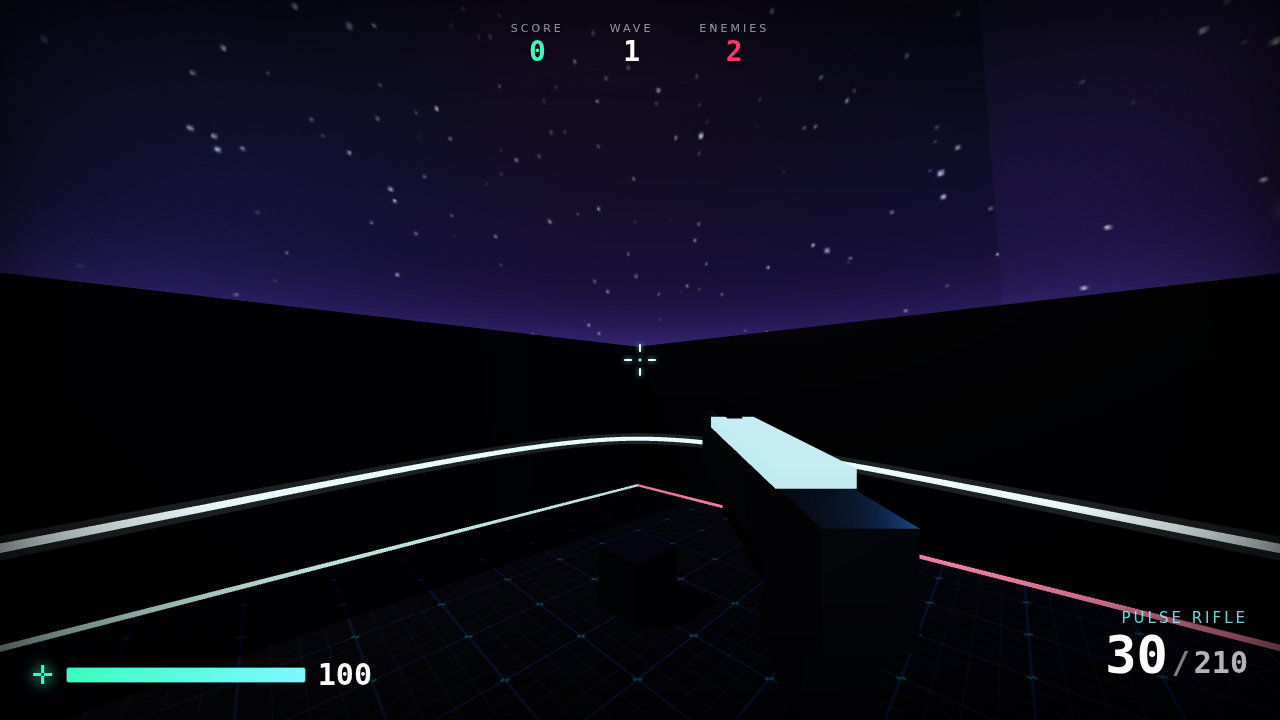
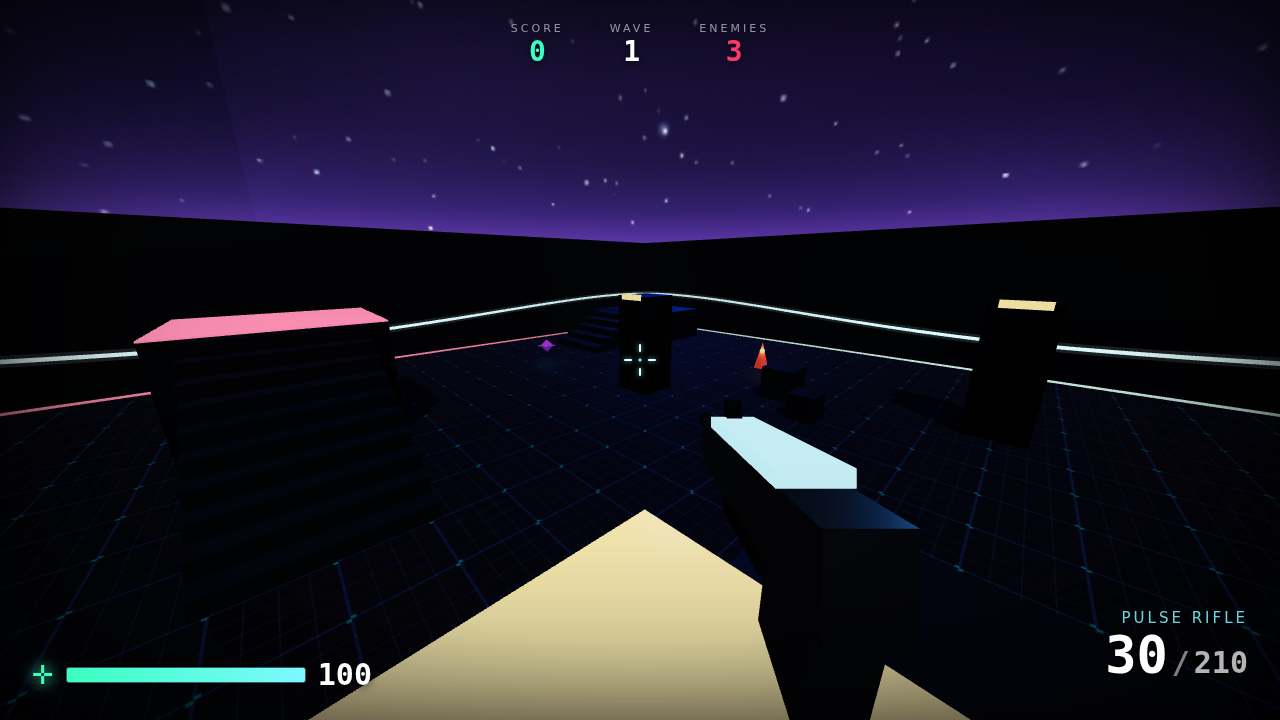
Stronger hit feedback, floaty higher jump, stairs + more verticality
Addressing playtest feedback:

- Getting hit is now obvious: a sharp red full-screen punch flash on impact, a
  stronger/longer-lingering red damage vignette, bigger brighter directional
  hit arrows, a health-bar shake + flash, and a meatier camera flinch + shake.
- Jump reworked for low-gravity feel: gravity 22 -> 16 and jump speed 7.6 ->
  8.6, giving a floaty ~2.3m jump (was ~1.3m) with more hang time and air
  control. Climbing with it now feels good.
- Verticality: the arena is multi-tier now. A central ziggurat (tiers at 1.2 /
  3.0 / 5.0) you hop up with the new jump, plus two high platforms (top 4.5)
  reached by proper walkable staircases (new buildStairs). Removed two pillars
  to open clean lanes; the perimeter rail stays clear of the new platforms.

Verified in headless Chromium: 2.24m jump, stairs climb to 4.5, hit-flash +
vignette + direction arrows fire, rail doesn't clip platforms, grind still
works, 40s combat soak reaches wave 3 with enemies pathing fine, zero errors.

Claude-Session: https://claude.ai/code/session_01UJSmgfZbDXcqYDTu1AQfyS

diff --git a/src/ui/hud.js b/src/ui/hud.js
@@ -20,6 +20,7 @@ export class HUD {
     this.hitFlash = 0;
     this.killFlash = 0;
     this.dmgFlash = 0;
+    this.hitFlashAmt = 0;
     this.lowHealthPulse = 0;
     this.combo = 0;
     this.comboTimer = 0;
@@ -31,6 +32,7 @@ export class HUD {
       <div id="vignette"></div>
       <div id="timewarp"></div>
       <div id="dmg-vignette"></div>
+      <div id="hit-flash"></div>
       <div id="hit-dir-layer"></div>
       <div id="crosshair">
         <div class="ch-dot"></div>
@@ -119,6 +121,7 @@ export class HUD {
       controls: q('#controls'),
       vignette: q('#dmg-vignette'),
       timewarp: q('#timewarp'),
+      hitFlash: q('#hit-flash'),
       hitDirLayer: q('#hit-dir-layer'),
       popupLayer: q('#popup-layer'),
       combo: q('#combo'),
@@ -237,7 +240,12 @@ export class HUD {
   }
 
   damageFlash(intensity, sourcePos, camera) {
-    this.dmgFlash = Math.max(this.dmgFlash, 0.4 + clamp01(intensity) * 0.5);
+    const i = clamp01(intensity);
+    this.dmgFlash = Math.max(this.dmgFlash, 0.6 + i * 0.4);   // lingering red vignette
+    this.hitFlashAmt = Math.max(this.hitFlashAmt, 0.5 + i * 0.45); // sharp instant punch
+    this.el.healthWrap.classList.remove('hit');
+    void this.el.healthWrap.offsetWidth;
+    this.el.healthWrap.classList.add('hit');
     if (sourcePos && camera) this._spawnDirIndicator(sourcePos, camera);
   }
 
@@ -245,7 +253,7 @@ export class HUD {
     const el = document.createElement('div');
     el.className = 'hit-dir';
     this.el.hitDirLayer.appendChild(el);
-    this.dmgIndicators.push({ el, life: 1.4, sourcePos: sourcePos.clone() });
+    this.dmgIndicators.push({ el, life: 2.0, max: 2.0, sourcePos: sourcePos.clone() });
   }
 
   popDamage(worldPos, amount, isHead, camera) {
@@ -341,8 +349,10 @@ export class HUD {
     const lowT = clamp01(1 - this.health / (this.maxHealth * 0.4));
     this.lowHealthPulse += dt * lerp(2, 8, lowT);
     const lowBase = lowT * (0.16 + (Math.sin(this.lowHealthPulse) * 0.5 + 0.5) * 0.22 * lowT);
-    this.dmgFlash = Math.max(0, this.dmgFlash - dt * 1.8);
+    this.dmgFlash = Math.max(0, this.dmgFlash - dt * 1.3);
     this.el.vignette.style.opacity = Math.max(this.dmgFlash, lowBase).toFixed(3);
+    this.hitFlashAmt = Math.max(0, this.hitFlashAmt - dt * 4.5);
+    this.el.hitFlash.style.opacity = this.hitFlashAmt.toFixed(3);
 
     // combo timer
     if (this.comboTimer > 0) {
@@ -383,8 +393,8 @@ export class HUD {
       let rel = srcYaw - camYaw;
       while (rel > Math.PI) rel -= Math.PI * 2;
       while (rel < -Math.PI) rel += Math.PI * 2;
-      d.el.style.transform = `translate(-50%,-50%) rotate(${-rel}rad) translateY(-150px)`;
-      d.el.style.opacity = String(clamp01(d.life / 1.4));
+      d.el.style.transform = `translate(-50%,-50%) rotate(${-rel}rad) translateY(-180px)`;
+      d.el.style.opacity = String(clamp01(d.life / (d.max || 2.0)));
       if (d.life <= 0) { d.el.remove(); this.dmgIndicators.splice(i, 1); }
     }
   }

diff --git a/src/world/level.js b/src/world/level.js
@@ -114,7 +114,7 @@ export function buildLevel(scene) {
   // --- corner cover pillars ---
   const pillars = [
     [-14, -14], [14, -14], [-14, 14], [14, 14],
-    [-20, 0], [20, 0], [0, -20], [0, 20],
+    [0, -20], [0, 20],
   ];
   for (const [x, z] of pillars) {
     const h = rand(3.5, 5.5);
@@ -138,6 +138,20 @@ export function buildLevel(scene) {
   buildRamp(addBox, crateMat, -25, -21.5, 5, 2.6, 'z+');
   addBox(25, 0, 25, 7, 2.6, 7, pillarMat);     // spans z 21.5..28.5
   buildRamp(addBox, crateMat, 25, 21.5, 5, 2.6, 'z-');
+
+  // --- central ziggurat: stack of tiers you hop up with the floaty jump ---
+  addBox(0, 1.2, 0, 6, 1.8, 6, pillarMat);     // tier 2, top at 3.0
+  addStrip(0, 3.01, 0, 6, 0.06, 6, 0x33d6ff);
+  addBox(0, 3.0, 0, 3, 2.0, 3, pillarMat);     // tier 3, top at 5.0 (high vantage)
+  addStrip(0, 5.01, 0, 3, 0.06, 3, 0xffc24a);
+
+  // --- two high platforms (above), reached by proper staircases ---
+  addBox(-20, 0, 0, 6, 4.5, 6, pillarMat);     // west high platform, top 4.5
+  addStrip(-20, 4.51, 0, 6, 0.06, 6, 0xff3a6b);
+  buildStairs(addBox, crateMat, -10, 0, -1, 0, 10, 0.45, 0.7, 4.5);
+  addBox(20, 0, 0, 6, 4.5, 6, pillarMat);      // east high platform, top 4.5
+  addStrip(20, 4.51, 0, 6, 0.06, 6, 0xff3a6b);
+  buildStairs(addBox, crateMat, 10, 0, 1, 0, 10, 0.45, 0.7, 4.5);
 
   // --- spawn points around the perimeter (kept off cover) ---
   const spawnPoints = [];
@@ -163,6 +177,20 @@ export function buildLevel(scene) {
 }
 
 function pick(arr) { return arr[(Math.random() * arr.length) | 0]; }
+
+// A straight staircase rising in an axis-aligned direction (dirX/dirZ is ±1 on
+// one axis, 0 on the other). Each step is a solid box from the floor up; the
+// per-step rise stays under the controller's STEP_HEIGHT so it's walkable.
+function buildStairs(addBox, mat, x, z, dirX, dirZ, count, stepH, stepD, width) {
+  for (let i = 0; i < count; i++) {
+    const h = (i + 1) * stepH;
+    const cx = x + dirX * (i + 0.5) * stepD;
+    const cz = z + dirZ * (i + 0.5) * stepD;
+    const w = dirX !== 0 ? stepD : width;
+    const d = dirZ !== 0 ? stepD : width;
+    addBox(cx, 0, cz, w, h, d, mat, { shadow: i === count - 1 });
+  }
+}
 
 // Build a ramp from stacked steps that RISE toward the platform, so the player
 // can walk up with the existing AABB step-up (no slope code needed). `edgeZ` is

diff --git a/styles.css b/styles.css
@@ -71,13 +71,20 @@ body { font-family: var(--font); color: #fff; user-select: none; -webkit-user-se
   100% { opacity: 0; transform: translate(-50%, -50%) scale(0.7); }
 }
 
+/* ---------- hit flash (sharp punch when you take damage) ---------- */
+#hit-flash {
+  position: absolute; inset: 0; opacity: 0; pointer-events: none;
+  background:
+    radial-gradient(ellipse at center, rgba(255, 30, 50, 0.25) 0%, rgba(255, 0, 30, 0.6) 70%, rgba(180, 0, 20, 0.85) 100%);
+}
+
 /* ---------- directional damage indicators ---------- */
 #hit-dir-layer { position: absolute; left: 50%; top: 50%; width: 0; height: 0; }
 .hit-dir {
   position: absolute; left: 0; top: 0; width: 0; height: 0;
-  border-left: 22px solid transparent; border-right: 22px solid transparent;
-  border-bottom: 30px solid rgba(255, 40, 60, 0.85);
-  filter: drop-shadow(0 0 6px rgba(255, 40, 60, 0.7));
+  border-left: 34px solid transparent; border-right: 34px solid transparent;
+  border-bottom: 44px solid rgba(255, 45, 70, 0.92);
+  filter: drop-shadow(0 0 14px rgba(255, 40, 60, 0.95));
 }
 
 /* ---------- popups (floating numbers) ---------- */
@@ -103,6 +110,10 @@ body { font-family: var(--font); color: #fff; user-select: none; -webkit-user-se
 #health-num { font-family: var(--mono); font-size: 30px; font-weight: 800; min-width: 56px; }
 #health-wrap.pulse #health-icon { animation: hurt 0.3s ease-out; }
 @keyframes hurt { 0% { transform: scale(1.6); color: #fff; } 100% { transform: scale(1); } }
+#health-wrap.hit { animation: hitshake 0.32s ease-out; }
+#health-wrap.hit #health-bar { animation: hitbar 0.32s ease-out; }
+@keyframes hitshake { 0% { transform: translateX(-5px); } 25% { transform: translateX(5px); } 50% { transform: translateX(-3px); } 100% { transform: translateX(0); } }
+@keyframes hitbar { 0% { border-color: #fff; box-shadow: 0 0 22px rgba(255, 40, 60, 0.9); } 100% { border-color: rgba(125, 249, 255, 0.35); } }
 
 #hud-bottom-right { position: absolute; right: 32px; bottom: 28px; text-align: right; }
 #weapon-name { font-size: 15px; letter-spacing: 3px; color: var(--cyan); opacity: 0.85; margin-bottom: 2px; }

diff --git a/src/player/controller.js b/src/player/controller.js
@@ -14,17 +14,17 @@ const CROUCH_EYE = 0.9;
 const RADIUS = 0.4;
 const STEP_HEIGHT = 0.6;   // auto-climb ledges/ramp steps up to this tall
 
-const GRAVITY = 22;
+const GRAVITY = 16;           // low gravity → floaty, moon-y hang time
 const WALK_SPEED = 6.6;
 const SPRINT_SPEED = 10.5;
 const CROUCH_SPEED = 3.3;
 const GROUND_ACCEL = 95;
-const AIR_ACCEL = 60;
-const AIR_CAP = 1.3;          // classic air-accel wishspeed cap → strafe jumping
+const AIR_ACCEL = 64;
+const AIR_CAP = 1.5;          // classic air-accel wishspeed cap → strafe jumping
 const FRICTION = 9;
 const STOP_SPEED = 2.5;
-const JUMP_SPEED = 7.6;
-const COYOTE = 0.1;           // grace window to still jump after leaving ground
+const JUMP_SPEED = 8.6;       // ~2.3m jump under the low gravity above
+const COYOTE = 0.12;          // grace window to still jump after leaving ground
 const JUMP_BUFFER = 0.12;     // press jump slightly before landing
 const SLIDE_BOOST = 1.28;
 const SLIDE_FRICTION = 2.2;

diff --git a/src/main.js b/src/main.js
@@ -209,9 +209,9 @@ class Game {
     this.hud.setHealth(Math.max(0, this.health), MAX_HEALTH);
     this.hud.damageFlash(clamp01(amount / 30), sourcePos, this.camera);
     this.audio.playerHurt();
-    this.fx.addTrauma(clamp(amount / 28, 0.12, 0.6));
-    this.fx.addHitstop(clamp(amount / 220, 0.015, 0.05)); // brief jolt on being hit
-    this.cam.addRecoil(0.02 + amount * 0.0016, (Math.random() - 0.5) * 0.05); // flinch
+    this.fx.addTrauma(clamp(amount / 22, 0.2, 0.7));
+    this.fx.addHitstop(clamp(amount / 200, 0.02, 0.06)); // brief jolt on being hit
+    this.cam.addRecoil(0.05 + amount * 0.0022, (Math.random() - 0.5) * 0.09); // flinch
     if (this.health <= 0) this.die();
   }
 

diff --git a/README.md b/README.md
@@ -52,8 +52,10 @@ Game feel is the sum of a hundred small responses. The big ones here:
 
 - **Movement** — Quake/Source-style explicit ground/air acceleration with
   friction + stop-speed for crisp starts and stops, air-strafe acceleration
-  (strafe-jumping builds speed), coyote time, jump buffering, variable jump
-  height, and a momentum-preserving crouch-slide.
+  (strafe-jumping builds speed), coyote time, jump buffering, a floaty
+  low-gravity jump with variable height, and a momentum-preserving crouch-slide.
+  The arena is multi-tier — a central ziggurat you hop up tier-by-tier, plus
+  stair-access high platforms — so the jump actually matters.
 - **Grind rail** — a Sonic/Rocket-Shoes-style rail wrapping the arena perimeter:
   a forgiving magnetic latch, speed that ramps as you ride, free aim so you shoot
   mid-grind, intuitive peel-off, and a launch that flings your momentum.
